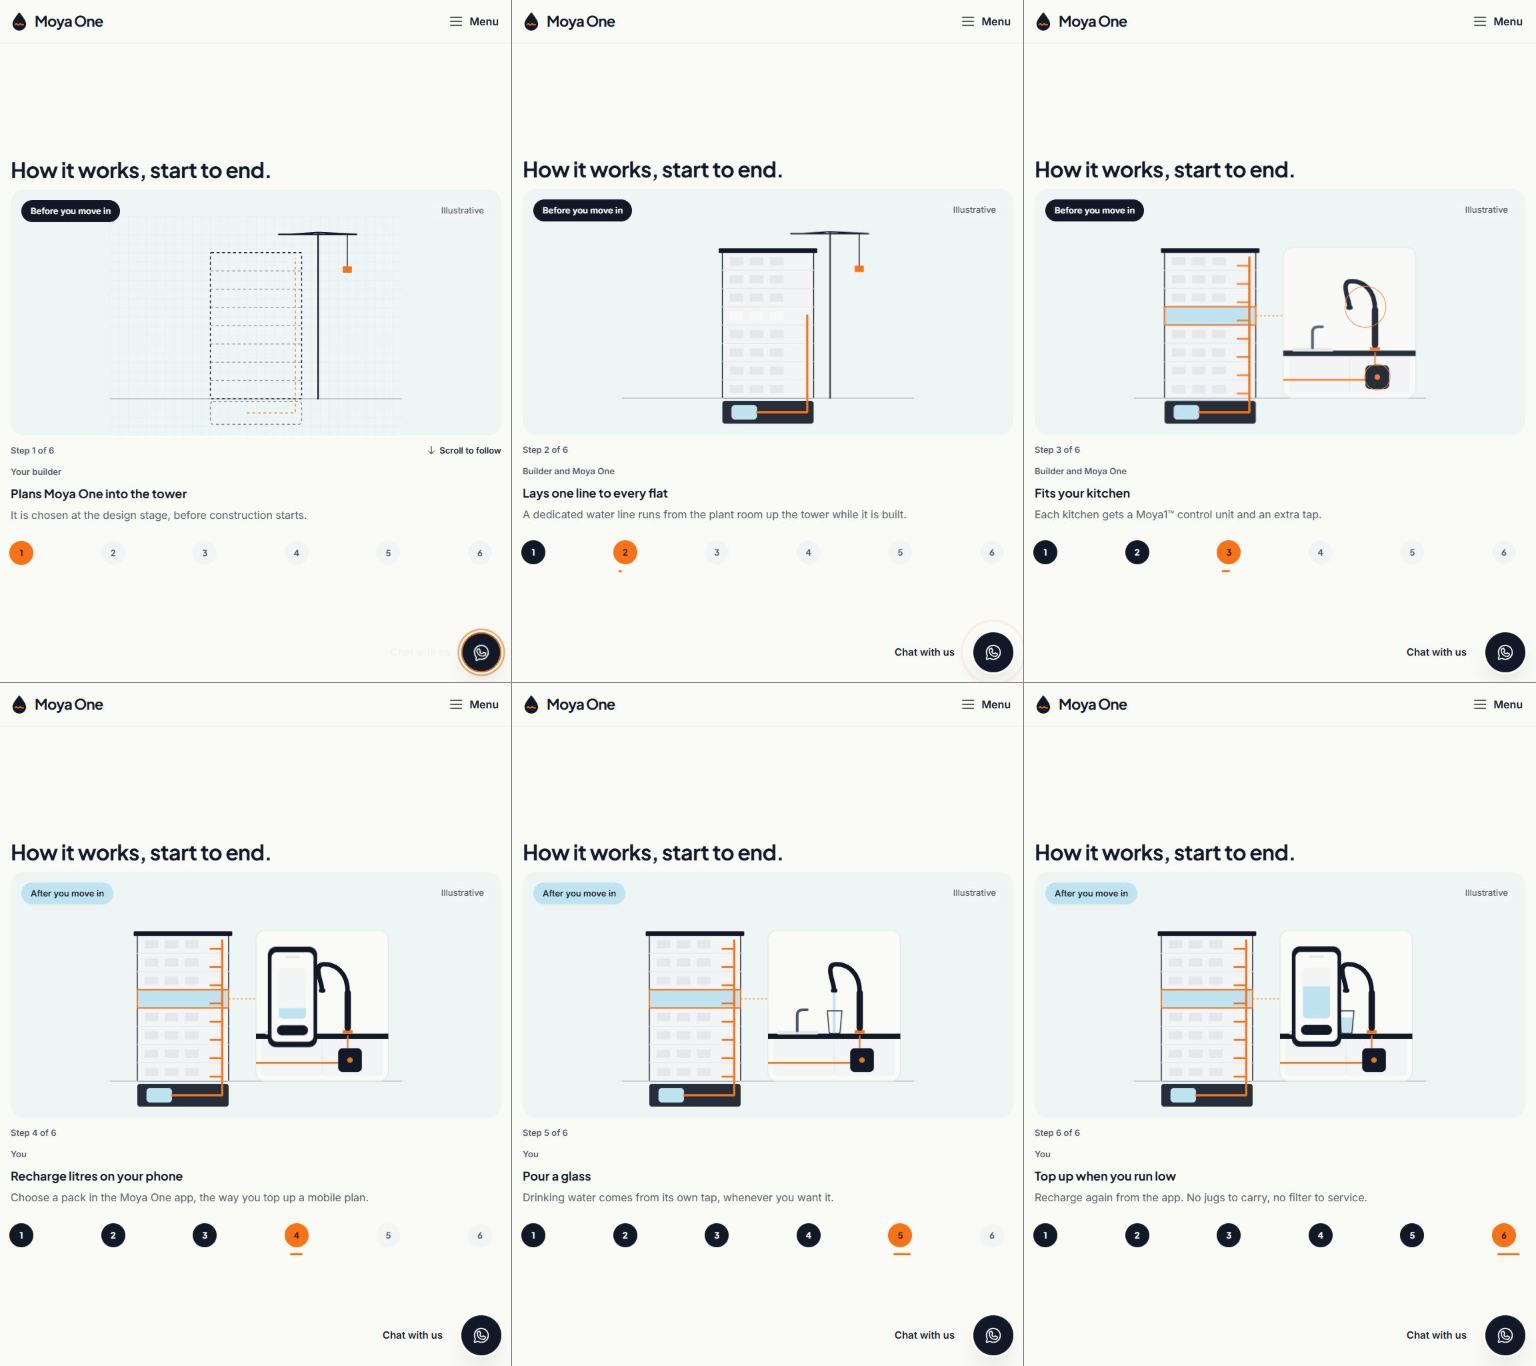
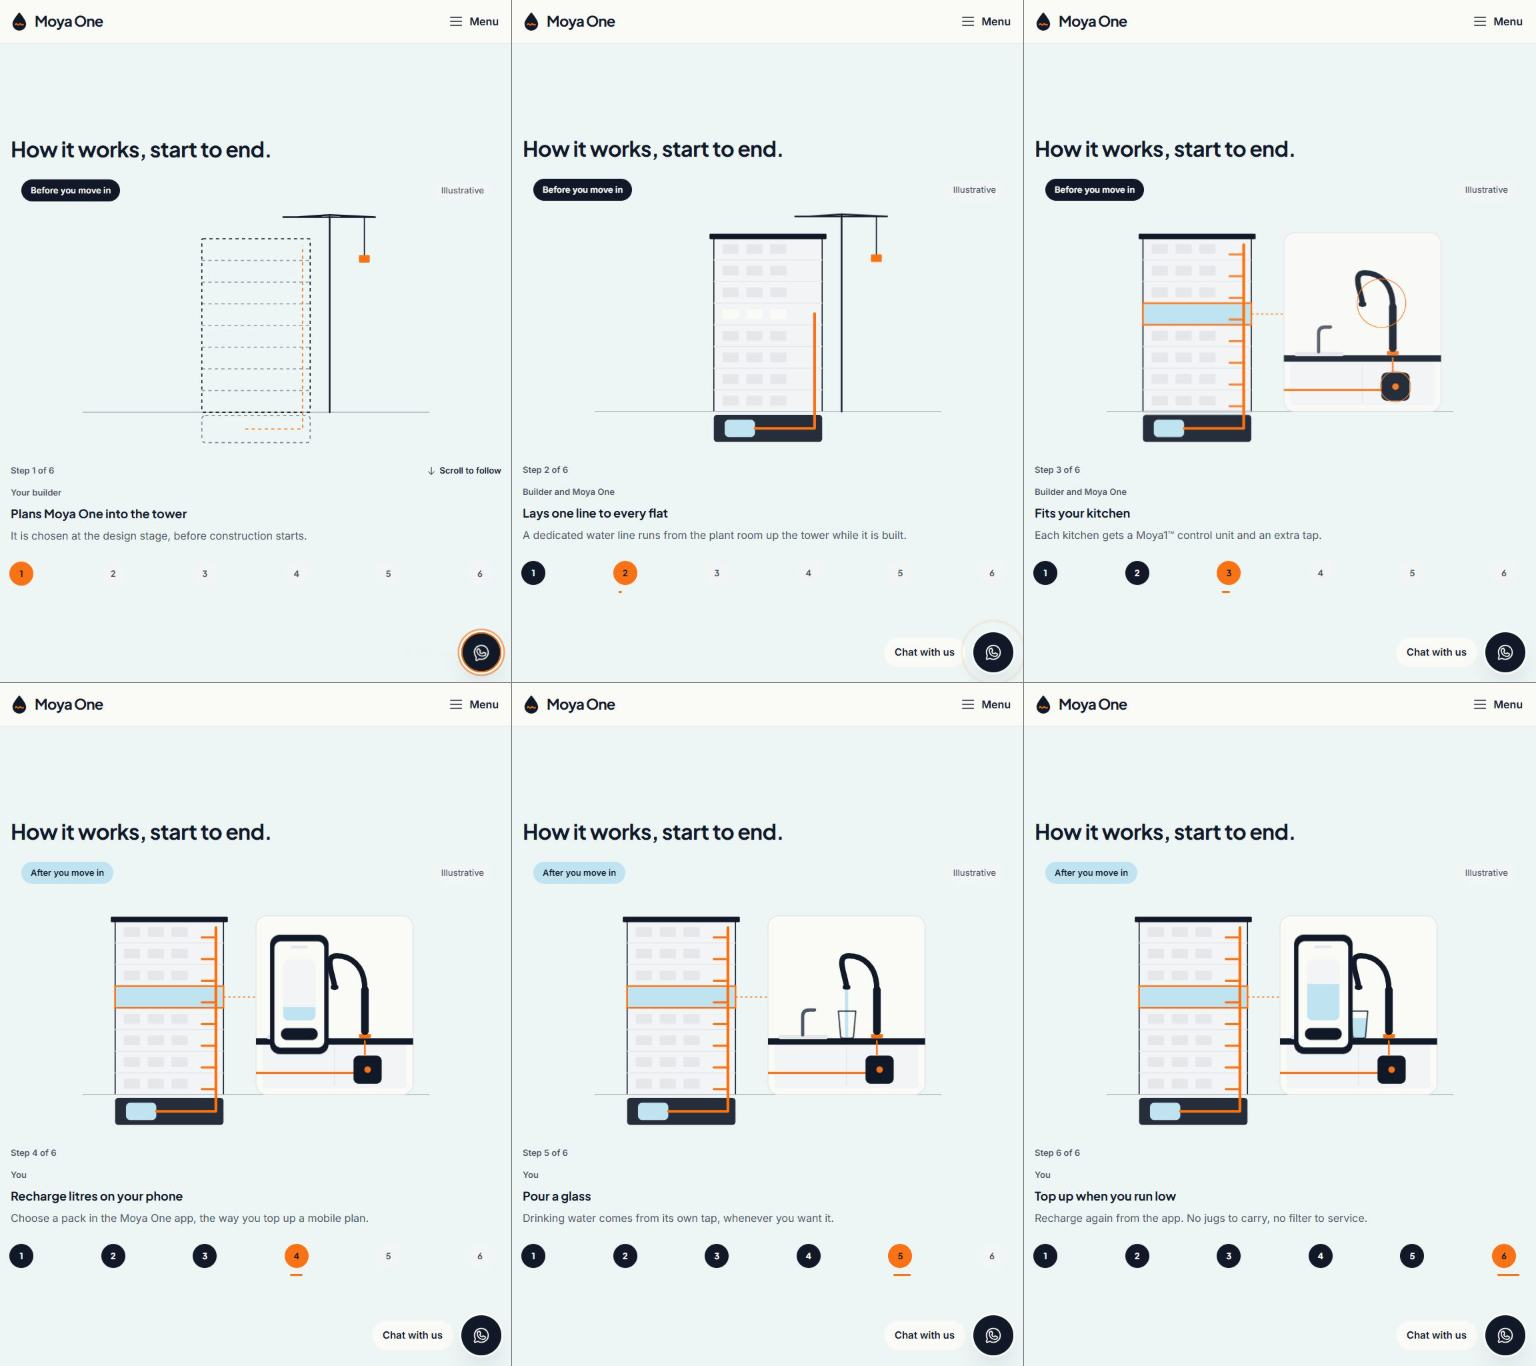
How it works: story opens full screen, edge to edge

diff --git a/app/b2c/how-it-works/how-it-works.css b/app/b2c/how-it-works/how-it-works.css
@@ -570,6 +570,7 @@
   align-items: center;
   height: calc(100svh - var(--nav-h));
   overflow: hidden;
+  background: color-mix(in srgb, var(--water) 22%, var(--base));
 }
 
 .tale-inner {
@@ -592,9 +593,6 @@
 
 .tale-stage {
   position: relative;
-  overflow: hidden;
-  border-radius: var(--radius-card);
-  background: color-mix(in srgb, var(--water) 22%, var(--base));
 }
 
 .tale-top {
@@ -948,16 +946,28 @@
   }
 
   .tale-stage {
-    grid-column: 1 / 8;
+    grid-column: 5 / 13;
+    grid-row: 1;
   }
 
   .tale-art {
-    max-height: calc(100svh - var(--nav-h) - 64px);
+    max-height: calc(100svh - var(--nav-h) - 32px);
   }
 
   .tale-side {
-    grid-column: 8 / 13;
+    grid-column: 1 / 5;
+    grid-row: 1;
     display: block;
+  }
+
+  .tale-side .tale-now {
+    min-height: 150px;
+    margin-block: 8px 24px;
+  }
+
+  .tale-now .tale-title {
+    font-size: var(--fs-h3);
+    line-height: var(--lh-h3);
   }
 
   .tale-heading {
@@ -999,9 +1009,11 @@
 
 @media (max-width: 899px) {
   .tale-art {
-    max-height: 36svh;
+    max-height: 42svh;
   }
+}
 
+@media all {
   .tale-steps {
     display: flex;
     justify-content: space-between;
@@ -1041,8 +1053,4 @@
   }
 }
 
-@media (min-width: 900px) {
-  .tale-now {
-    display: none;
-  }
-}
+

diff --git a/components/how/Story.js b/components/how/Story.js
@@ -25,9 +25,6 @@ function Art({ step }) {
   return (
     <svg className={cls} viewBox="0 0 640 480" role="img" aria-label={`Step ${n} of 6: ${STEPS[step].title}.`}>
       <defs>
-        <pattern id="tale-grid" width="20" height="20" patternUnits="userSpaceOnUse">
-          <path d="M20 0H0V20" fill="none" stroke="var(--water)" strokeWidth="1" />
-        </pattern>
         <clipPath id="tale-glass">
           <path d="M450 246h32l-4 46a4 4 0 0 1-4 4h-16a4 4 0 0 1-4-4z" />
         </clipPath>
@@ -35,9 +32,6 @@ function Art({ step }) {
           <rect x="370" y="150" width="60" height="112" rx="10" />
         </clipPath>
       </defs>
-
-      {/* the builder's drawing board, only while it is a plan */}
-      <rect className="tale-board" x="0" y="0" width="640" height="480" fill="url(#tale-grid)" />
 
       {/* ground and the basement */}
       <path d="M0 400H640" stroke="var(--ink)" strokeWidth="2" opacity=".25" />
